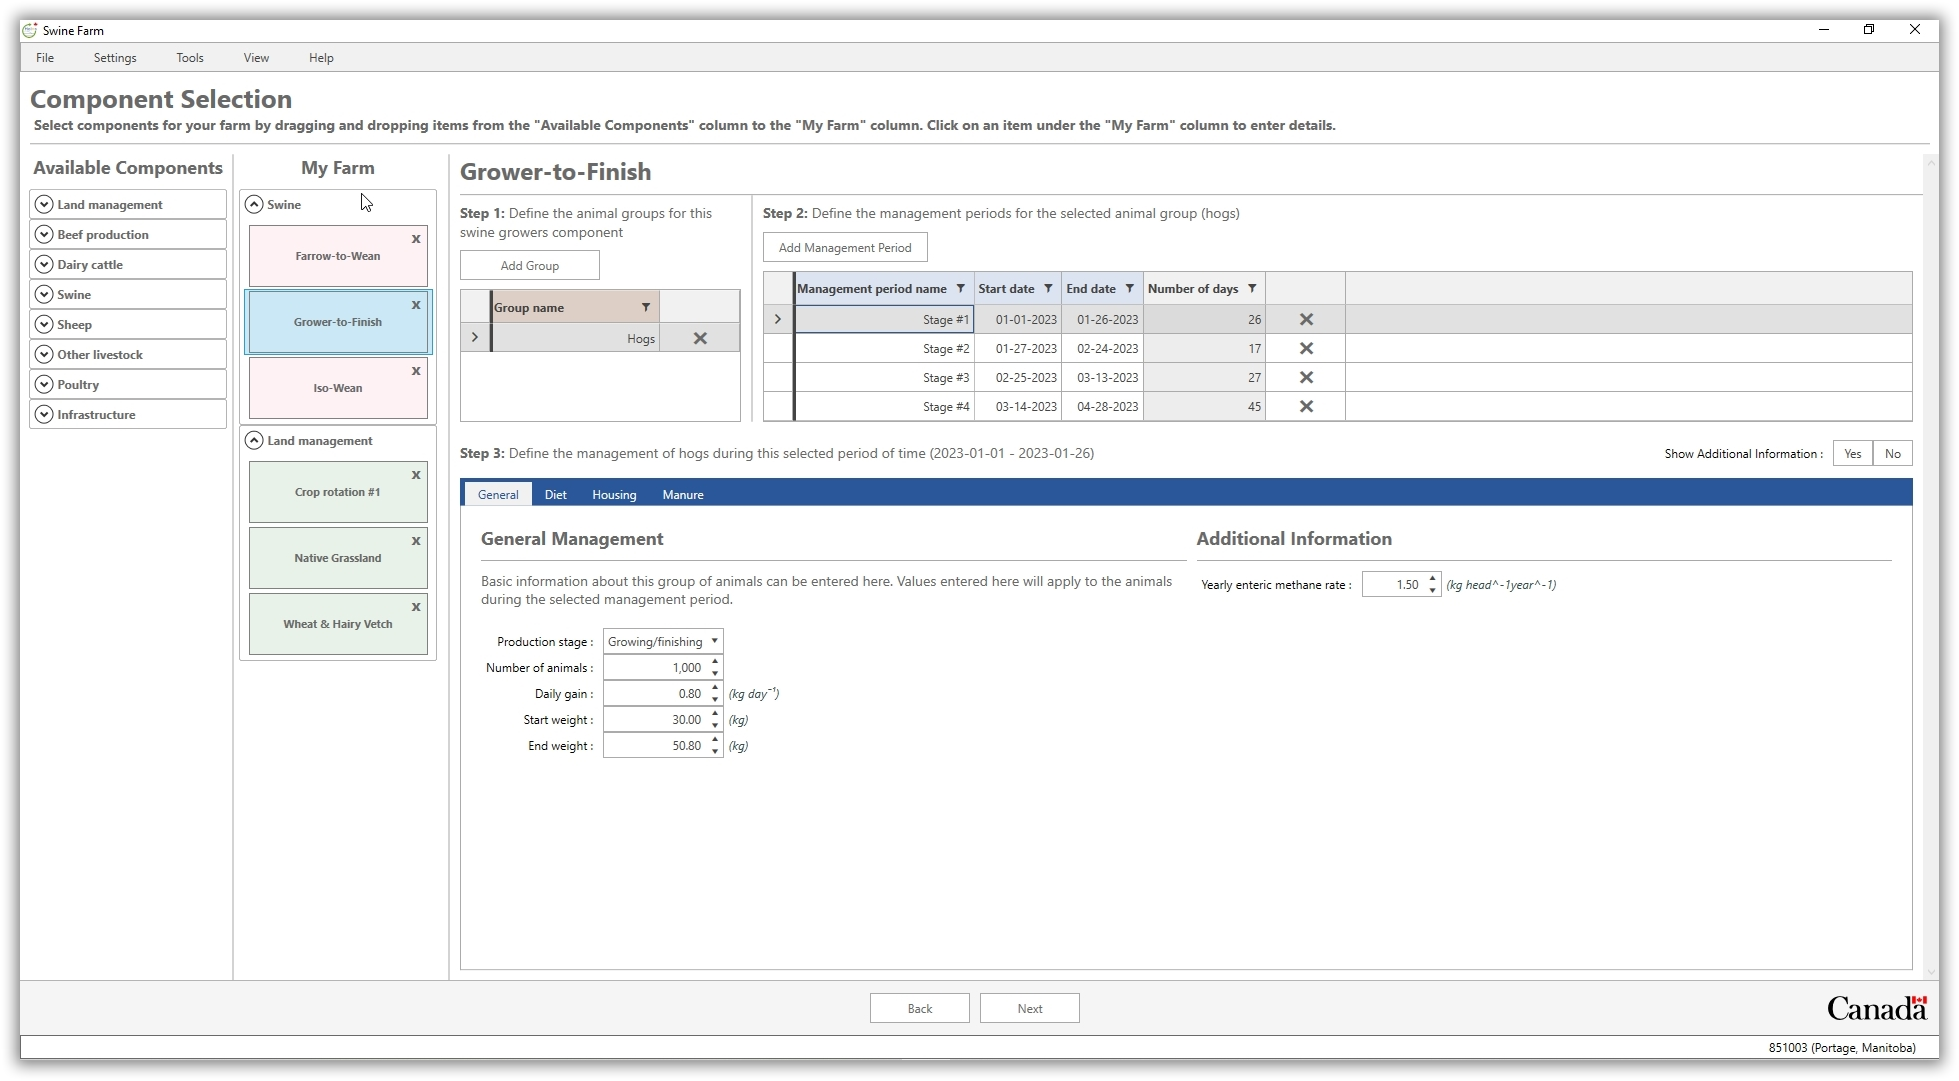
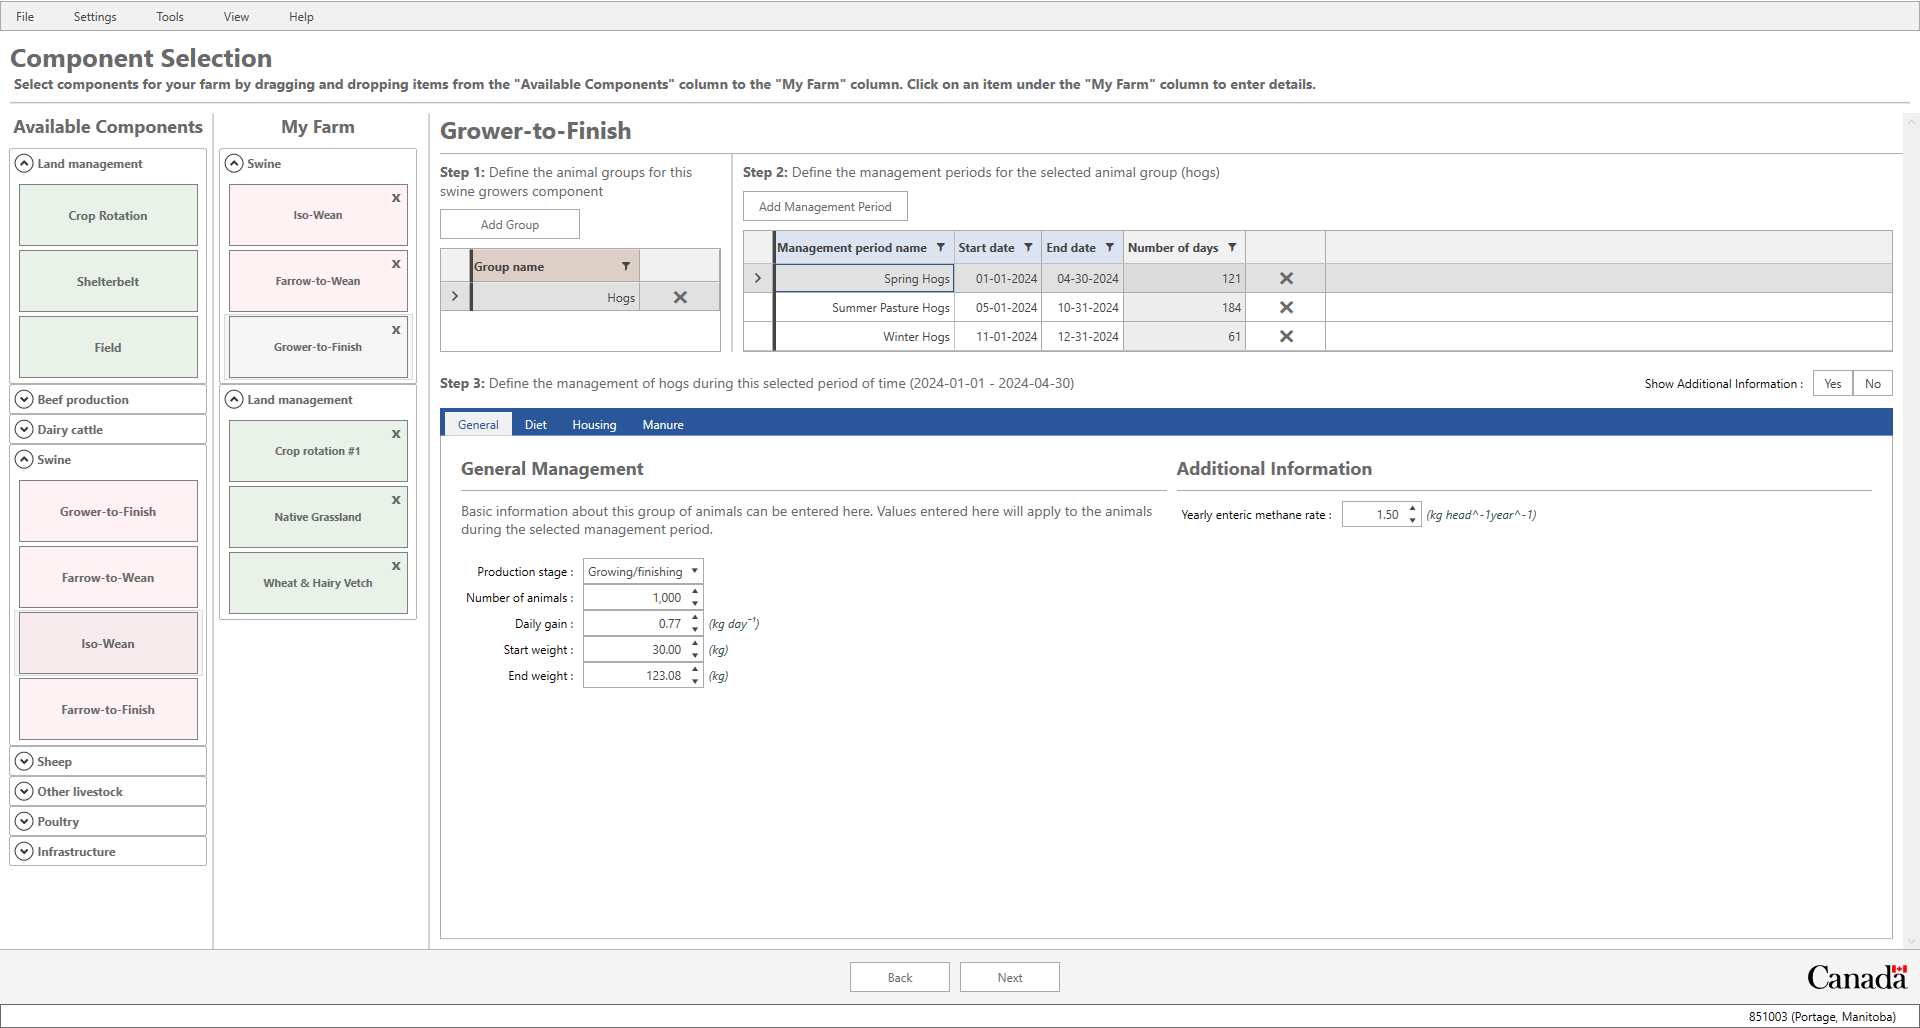
Updates to swine training guide

Changed region(s): [[0.0, 0.0, 1.0, 1.0], [0.0938, 0.716, 0.125, 0.8405], [0.2188, 0.8716, 0.25, 0.9339]]

diff --git a/H.Content/Documentation/Swine Training Guide/Holos_4_Swine_Training_Guide.md b/H.Content/Documentation/Swine Training Guide/Holos_4_Swine_Training_Guide.md
@@ -14,7 +14,7 @@ Please note that Holos 4 can be installed on a Microsoft Windows PC only. Mac OS
 
 Launch Holos by double-clicking on the Holos desktop icon. Holos will ask the user to open an existing farm, create a new farm, or import a saved farm file (Figure 1). If there is already a saved farm in the system, the user can click **Open**. If there are no saved farms in the system Holos will ask the user if they want to create a **New** farm or **Import** a saved farm file (i.e., a .json file). If the user creates a new farm, they are asked for the farm name and an optional comment (Figure 2).  
 
-Enter **"Holos 2023"** as the Name and **"Training Version"** as the Comments.  Click **OK** to proceed to the next screen.
+Enter **"Holos 2024"** as the Name and **"Training Version"** as the Comments.  Click **OK** to proceed to the next screen.
 
 Ensure “**Metric**” is selected as the unit of measurement type and then click the **Next** button at the bottom of the screen (Figure 3). 
 
@@ -206,7 +206,7 @@ The swine operation (defined later on) relies on native pasture for the summer m
 
 3. Select **"Rangeland (Native)"** from the drop-down crop list in the **Crop** column under **Step 2**. Please note that Holos auto-populates the **Winter/Cover/Undersown Crop** area when a perennial crop is selected.
 
-4. Keep **"0"** as the amount of irrigation and number of pesticide passes.
+4. Set **"0"** as the amount of irrigation and number of pesticide passes.
 
 5. No fertilizer is used for this crop.
 
@@ -234,20 +234,20 @@ For this example, we assume that the farm requires **70 ha** of barley grain and
 
 2. To expand the horizontal space available in Holos, click on **View** from the top menu bar and select **"Hide List of Available Components"**.
 
-3. The rotation of this field begins in **"1985"** and ends in **"2023"**. Under **Step 1**, please ensure that these two values are set as the start and end year, respectively.
+3. The rotation of this field begins in **"1985"** and ends in **"2024"**. Under **Step 1**, please ensure that these two values are set as the start and end year, respectively.
 
 4. Enter **"70"** ha as the **total area** of this field.
 
-5. Under **Step 2** change the crop to **"Barley"**. The year for this crop should be **"2023"**.
+5. Under **Step 2** change the crop to **"Barley"**. The year for this crop should be **"2024"**.
     * Under the **General** Tab enter **"3,000 kg ha<sup>-1</sup>"** (wet weight) as the yield for this crop.
     * Change the tillage type to **"Reduced Tillage"**.
-    * Keep **"0"** as the amount of irrigation and number of pesticide passes.
+    * Keep the default values of **"80.78"** mm ha<sup>-1</sup> as the amount of irrigation and **"0"** as the number of pesticide passes.
 
 6. Now add another crop to this rotation. Click on **"Add Crop"** under **Step 2** to add a second crop to the rotation. 
 
 <br>
 
-> *Note: Holos sets the year for this new crop to 2022 or one before the previous crop's year. This means that Holos is expecting the user to enter crops that have been grown in reverse order back to 1985.*
+> *Note: Holos sets the year for this new crop to 2023 or one before the previous crop's year. This means that Holos is expecting the user to enter crops that have been grown in reverse order back to 1985.*
 
 > *It is not necessary to enter a crop for each individual year going back to 1985, only enough crops to describe a single phase of the rotation will need to be entered by the user. Holos will then copy the phase information and back-populate the field history (i.e., Holos will copy the rotation back to 1985 on behalf of the user).*
 
@@ -308,34 +308,34 @@ The farrow-to-wean component is divided into **three animal groups**, and each o
 
 2. Click the management period named **"Open gilts"** in **Step 2** to activate that management period.
 
-3. Ensure **"January 1, 2022"** is set as the 'Start date' and **"January 5, 2022"** is set as the 'End date' (5 days). The default start and end dates that are provided in Holos can be changed by the user and the ‘Number of days’ will adjust accordingly. 
+3. Ensure **"January 1, 2024"** is set as the 'Start date' and **"January 6, 2024"** is set as the 'End date' (5 days). The default start and end dates that are provided in Holos can be changed by the user and the ‘Number of days’ will adjust accordingly. 
 
 4. Enter data related to the number of animals, diet, manure system, and housing type in **Step 3**. Under the **General** Tab:
     * Select 'Open (not lactating or pregnant)' as the Production stage.
     * Enter **"83"** as the number of animals.
     * Keep the remaining entries at their default values.
 
-5. Under the **Diet Tab** select 'Gestation based diet' from the drop down menu. From the **Housing Tab** select 'Housed in Barn' and leave the Bedding type as 'Straw'. From the **Manure Tab**, select 'Liquid/Slurry with natural crust'.
+5. Under the **Diet Tab** select 'Gestation' from the diet drop down menu. From the **Housing Tab** select 'Housed in Barn' and set the Bedding type as 'Straw (Chopped)'. From the **Manure Tab**, select 'Liquid/Slurry with natural crust'.
 
-6.  For each of the three management periods named **"Bred Gilts (Stages 1-3)"** set the 'Start' and 'End' dates to **38** days, respectively (i.e., Stage #1: 'January 06, 2022' to 'February 12, 2022', etc.).
+6.  For each of the three management periods named **"Bred Gilts (Stages 1-3)"** set the 'Start' and 'End' dates to **38** days, respectively (i.e., Stage #1: 'January 7, 2024' to 'February 14, 2024', etc.).
 
 7. Highlight **"Bred Gilts (Stage #1)"** management period and from the **General Tab:**
     * Select 'Gestating' as the Production stage.
     * Enter **"83"** as the number of animals.
     * Keep the remaining entries at their default values.
     
-8. Under the **Diet Tab** select 'Gestation based diet' from the drop down menu. From the **Housing Tab** select 'Housed in Barn' with 'Straw' bedding, and from the **Manure Tab** select 'Liquid/Slurry with natural crust'.
+8. Under the **Diet Tab** select 'Gestation' from the diet drop down menu. From the **Housing Tab** select 'Housed in Barn' with 'Straw (Chopped)' bedding, and from the **Manure Tab** select 'Liquid/Slurry with natural crust'.
 
 9. Repeat the Steps 7 and 8 for **"Bred Gilts (Stage#2) and (Stage #3)"** management periods.
 
-10. Lastly select the **"Farrowing gilts"**, and enter **"April 04, 2022"** as the 'Start date' and **"May 07, 2022"** as the 'End date' (21 days).
+10. Lastly select the **"Farrowing gilts"**, and enter **"May 3, 2024"** as the 'Start date' and **"May 24, 2024"** as the 'End date' (21 days).
 
 11. Under the **General Tab:**
     * Select 'Lactating' as the Production stage.
     * Enter **"83"** as the number of animals.
     * Keep the remaining entries at their default values.
     
-12. Under the **Diet Tab** select 'Lactation based diet' from the drop down menu. From the **Housing Tab** select 'Housed in Barn' with 'Straw' bedding, and from the **Manure Tab** select 'Liquid/Slurry with natural crust'.
+12. Under the **Diet Tab** select 'Lactation' from the diet drop down menu. From the **Housing Tab** select 'Housed in Barn' with 'Straw (Chopped)' bedding, and from the **Manure Tab** select 'Liquid/Slurry with natural crust'.
 
 <br>
 
@@ -343,37 +343,37 @@ The farrow-to-wean component is divided into **three animal groups**, and each o
 
 We will now move on to the **"Sow"** animal group in **Step 1** by highlighting it. 
 
-13. For each of the three management periods in **Step 2** named **"Bred Sows (Stages 1-3)"**, set the 'Start' and 'End' dates to **38** days, respectively (i.e., Stage #1: 'January 31, 2022' to 'March 10, 2022', etc.). 
+13. For each of the three management periods in **Step 2** named **"Bred Sows (Stages 1-3)"**, set the 'Start' and 'End' dates to **38** days, respectively (i.e., Stage #1: 'January 07, 2024' to 'February 14, 2024', etc.). 
 
 14. Under the **General Tab** for **all three** 'Bred Sows' management periods:
     * Select 'Gestating' as the Production stage.
     * Enter **"83"** as the number of animals.
     * Keep the remaining entries at their default values.
-    * **"Litter size"** can be adjusted accordingly in all Management periods for Sows; here we will leave the default value of **13.5**.  
+    * **"Litter size"** can be adjusted accordingly in all Management periods for Sows; here we will leave the default value of **9**.  
     
-15. Under the **Diet Tab** select 'Gestation based diet' from the drop down menu.     From the **Housing Tab** select 'Housed in Barn' with 'Straw' bedding, and from the **Manure Tab** select 'Liquid/Slurry with natural crust'.
+15. Under the **Diet Tab** select 'Gestation' from the diet drop down menu.     From the **Housing Tab** select 'Housed in Barn' with 'Straw (Chopped)' bedding, and from the **Manure Tab** select 'Liquid/Slurry with natural crust'.
 
-16. Moving to the **"Farrowing lactating sows"** management period in **Step 2**, set the 'Start date' to **"May 28, 2022"** and 'End date' to **"June 09, 2022"**(21 days).
+16. Moving to the **"Farrowing lactating sows"** management period in **Step 2**, set the 'Start date' to **"May 3, 2024"** and 'End date' to **"June 24, 2024"** (21 days).
 
 17. Under the **General Tab:** 
     * Select 'Lactating' as the Production stage.
     * Enter **"83"** as the number of animals.
     * Keep the remaining entries at their default values.
     
-18. Under the **Diet Tab** select 'Lactation based diet' from the drop down menu. From the **Housing Tab** select 'Housed in Barn' with 'straw' bedding, and from the **Manure Tab** select 'Liquid/Slurry with natural crust'.
+18. Under the **Diet Tab** select 'Lactation' from the diet drop down menu. From the **Housing Tab** select 'Housed in Barn' with 'Straw (Chopped)' bedding, and from the **Manure Tab** select 'Liquid/Slurry with natural crust'.
 
 19. Lastly, in the **"Open sows"** management period under the **General Tab:**
     * Select 'Open (not lactating or pregnant)' as the Production stage.
     * Enter **"370"** as the number of animals.
     * Keep the remaining entries at their default values.
     
-20. Under the **Diet Tab** select 'Gestation based diet' from the drop down menu.     From the **Housing Tab** select 'Housed in Barn' with 'Straw' bedding, and from the **Manure Tab** select 'Liquid/Slurry with natural crust'.
+20. Under the **Diet Tab** select 'Gestation' from the diet drop down menu. From the **Housing Tab** select 'Housed in Barn' with 'Straw (Chopped)' bedding, and from the **Manure Tab** select 'Liquid/Slurry with natural crust'.
 
 <br>
 
 ### Boars
 
-Moving on to the **"Boars"** section, ensure this group is highlighted in **Step 1**. In **Step 2** we will have a single Management period setting **"January 1, 2022"** as the 'Start date' and **"December 31,2022"** as the 'End date'(365 days).
+Moving on to the **"Boars"** section, ensure this group is highlighted in **Step 1**. In **Step 2** we will have a single Management period setting **"January 1, 2024"** as the 'Start date' and **"December 31, 2024"** as the 'End date'(365 days).
 
 20. Under the **General Tab:**
     * Select 'Breeding stock' as the Production stage.
@@ -389,15 +389,15 @@ As an alternative to the default set of standard animal diets that are found in 
     **Custom Diet Creator Screen:**
 
     * Click the **"Add Custom Diet"** button in **Step 1** to begin to create our new custom diet. 
-    * Rename the diet **"Boar Diet"** then press the Enter to save.
+    * Rename the diet **"Custom Boar Diet"** then press the Enter to save.
     * Add ingredients to the new diet in **Step 2**. Select **"Add Selected Ingredients to Diet"**. Search for **"Wheat, Hard Red"** from the ingredient list, highlight the choice, and then click the **OK** button below to have it appear in **Step 3** where the diet is being comprised.
     * Enter the **Percentage in diet (%DM)** that this ingredient will hold; here we will input **38%**.
     * Continue to add more ingredients to the diet. Select **"Wheat Shorts"** from the “**Add Selected Ingredient to Diet**” list, highlight, and click **OK**. Enter **2%** in **Step 3** for **Percentage in diet (%DM)**.
-    * Enter **"Corn distiller's dried grains (10.6%)"**. Continue to add all the various ingredients to your diet. For our boar diet, add ingredients as follows: "Soybean meal, fermented (7.1%)", "Canola, Full fat (0.5%)", "Field peas (5.0%)", "salt (0.26%)", "phosphorus (1.3%)", "Canola Meal, Expelled (15%)", and "Barley (20%)". 
-    * If any ingredient is not found in the **Full Text Search**, the user can enter the ingredient information independently using the **"Create Custom Ingredient"** button. For our example we will add the combination of lysine/vitamins (0.24%) following these steps.  
+    * Enter **"Corn distiller's dried grains (10.6%)"**. Continue to add all the various ingredients to your diet. For our boar diet, add ingredients as follows: "Soybean meal, fermented (8.15%)", "Canola, Full fat (1%)", "Field peas (5.0%)", "Canola Meal, Expelled (15%)", and "Barley (20%)". 
+    * If any ingredient is not found in the **Full Text Search**, the user can enter the ingredient information independently using the **"Create Custom Ingredient"** button. For our example we will add the combination of lysine/vitamins (0.25%) following these steps.  
     * Holos will now report the diet as being complete when **all ingredients total 100%**.
     * Click the **OK** button to save the new custom diet
-    * Now from the Diet tab, **"Boar Diet"** can be selected from the drop down-down menu as the new diet for this animal group.
+    * Now from the Diet tab, **"Custom Boar Diet"** can be selected from the drop down-down menu as the new diet for this animal group.
  
  <br>
  
@@ -413,13 +413,13 @@ As an alternative to the default set of standard animal diets that are found in 
 
 <br>
 
-22.  From the **Housing Tab** select 'Housed in Barn' with 'Straw' bedding, and from the **Manure Tab** select 'Liquid/Slurry with natural crust'.
+22.  From the **Housing Tab** select 'Housed in Barn' with 'Straw (Chopped)' bedding, and from the **Manure Tab** select 'Liquid/Slurry with natural crust'.
 
 <br>
 
 ## Iso-Wean
 
-Click on the **Piglets** animal group in **Step 1**. Click on the **"Weaned piglets Stage #1"** management period in **Step 2**. We will leave the default dates 'January 01, 2022' to 'January 19, 2022' (19 days).
+Click on the **Piglets** animal group in **Step 1**. Click on the **"Weaned piglets Stage #1"** management period in **Step 2**. We will leave the default dates 'January 01, 2024' to 'January 20, 2024' (19 days).
 
 23. From the **General Tab:**
        * Enter **"100:** as the number of animals.
@@ -428,9 +428,9 @@ Click on the **Piglets** animal group in **Step 1**. Click on the **"Weaned pigl
 24. From the **Diet Tab:**
     * Select 'Nursery weaners (starter diet #1)' as the diet type. 
     
-25.  From the **Housing Tab** select 'Housed in Barn' with 'Straw' bedding, and from the **Manure Tab** select 'Liquid/Slurry with natural crust'.
+25.  From the **Housing Tab** select 'Housed in Barn' with 'Straw (Chopped)' bedding, and from the **Manure Tab** select 'Liquid/Slurry with natural crust'.
 
-26. Information related to diet, housing and manure management is entered in the same manner as for the **"Weaned piglets Stage #2"** management period. We will leave the default dates 'January 20, 2022' to 'February 04, 2022' (16 days). Repeat steps 23 to 25, with the exception of selecting 'Nursery weaners (starter diet #2)'.
+26. Information related to diet, housing and manure management is entered in the same manner as for the **"Weaned piglets Stage #2"** management period. We will leave the default dates 'January 21, 2024' to 'February 04, 2024' (16 days). Repeat steps 23 to 25, with the exception of selecting 'Nursery weaners (starter diet #2)'.
 
 <br>
 
@@ -444,7 +444,7 @@ Click on the **Piglets** animal group in **Step 1**. Click on the **"Weaned pigl
 
 ## Grower-to-Finish 
 
-Click on the **Hogs** animal group in **Step 1**. In **Step 2** we will create three Management periods for this group. The first is the winter period, setting **"January 01, 2022"** as the 'Start date' and **"April 30, 2022"** as the ‘End date’ (120 days). Name this period **"Spring Hogs"**. We can go ahead and remove the 4th Management period by clicking the **X**.
+Click on the **Hogs** animal group in **Step 1**. In **Step 2** we will create three Management periods for this group. The first is the winter period, setting **"January 01, 2024"** as the 'Start date' and **"April 30, 2024"** as the ‘End date’ (121 days). Name this period **"Spring Hogs"**. We can go ahead and remove the 4th Management period by clicking the **X**.
 
 1. Highlight the 'Spring Hogs' management period, and on the **General Tab:**
       * Leave the default 'Growing/finishing' as the production stage.
@@ -454,7 +454,7 @@ Click on the **Hogs** animal group in **Step 1**. In **Step 2** we will create t
     * Select 'Grower/Finisher diet 2' as the diet type.
 
     **Housing Tab:**
-    * Select 'Housed in barn' as the housing type and leave 'Straw' as the bedding type.
+    * Select 'Housed in barn' as the housing type and leave 'Straw (Chopped)' as the bedding type.
     
     **Manure Tab:**
     * Select 'Liquid/Slurry with natural crust' as the manure handling system.
@@ -462,7 +462,7 @@ Click on the **Hogs** animal group in **Step 1**. In **Step 2** we will create t
 
 ### Hogs - On Pasture
 
-The second management period in **Step 2** will be named **"Summer Pasture Hogs"**. Our warm season grazing will be set from **"May 01, 2022"**  to **"October 31, 2022"** (184 days). 
+The second management period in **Step 2** will be named **"Summer Pasture Hogs"**. Our warm season grazing will be set from **"May 01, 2024"**  to **"October 31, 2024"** (184 days). 
 
 2. Highlight 'Summer Pasture Hogs', and on the **General Tab:"** 
       * Leave the production stage as 'Growing/finishing' 
@@ -477,7 +477,7 @@ The second management period in **Step 2** will be named **"Summer Pasture Hogs"
 
 3. We will create a new diet as a supplement to grazing on pasture. Select the 'Custom Diet Creator' button. In **Step 1** on the this screen, select 'Add Custom Diet' and name it **"Hog Supplement"**. 
 
-4. In **Step 2** add the ingredients Barley (97.5%), phosphorus (2%) and lysine/vitamins (0.5%). The last two ingredients will now appear in the text search as they were previously added for the 'Boar Diet'. 
+4. In **Step 2** add the ingredients Barley (99.5%) and lysine/vitamins (0.5%). Lysine/vitamins will now appear in the text search as it was previously added for the 'Boar Diet'. 
 
 5. Adjust the 'Percentage in diet' values in **Step 3**. Click **OK** to save.
 
@@ -490,7 +490,7 @@ The second management period in **Step 2** will be named **"Summer Pasture Hogs"
 8. On the **Manure Tab:**
     * Select **Pasture** as the manure handling system.
 
-Lastly set the fall period as **"November 01, 2022"** to **"December 31,2022"** (61 days) and name this **"Winter Hogs"**.
+Lastly set the fall period as **"November 01, 2024"** to **"December 31, 2024"** (61 days) and name this **"Winter Hogs"**.
 
 9. Highlight the 'Winter Hogs' management period, and on the **General Tab:**
       * Leave the default 'Growing/finishing' as the production stage.
@@ -500,7 +500,7 @@ Lastly set the fall period as **"November 01, 2022"** to **"December 31,2022"** 
     * Select 'Grower/Finisher diet #4' as the diet type.
 
     **Housing Tab:**
-    * Select 'Housed in barn' as the housing type and leave 'Straw' as the bedding type.
+    * Select 'Housed in barn' as the housing type and leave 'Straw (Chopped)' as the bedding type.
     
     **Manure Tab:**
     * Select 'Liquid/Slurry with natural crust' as the manure handling system.
@@ -618,7 +618,7 @@ We will assume that the barley grain and mixed hay rotation fields were previous
 <br>
 
 <p align="center">
-    <img src="../../Images/SwineGuide/en/Figure 22.jpg" alt="Figure 22" width="650"/>
+    <img src="../../Images/SwineGuide/en/Figure 22.png" alt="Figure 22" width="650"/>
     <br>
     <em>Figure 22: Editing crops in a historical period of the rotation. </em>
 </p> 
@@ -700,7 +700,7 @@ The **'Feed Estimate'** report provides an estimate of dry matter intake based o
 <br>
 
 <p align="center">
-    <img src="../../Images/SwineGuide/en/Figure 26.jpg" alt="Figure 26" width="950"/>
+    <img src="../../Images/SwineGuide/en/Figure 26.png" alt="Figure 26" width="950"/>
     <br>
     <em>Figure 26: Feed estimate report.</em>
 </p> 
@@ -720,7 +720,7 @@ If you would like to export your entire farm file, from **File** on the main tas
 <br>
 
 <p align="center">
-    <img src="../../Images/SwineGuide/en/Figure 27.jpg" alt="Figure 27" width="950"/>
+    <img src="../../Images/SwineGuide/en/Figure 27.png" alt="Figure 27" width="950"/>
     <br>
     <br>
     <em>Figure 27: Carbon report section. Allows switching between graph shown here and table format shown below.</em>
@@ -729,7 +729,7 @@ If you would like to export your entire farm file, from **File** on the main tas
 <br>
     
 <p align="center">
-    <img src="../../Images/SwineGuide/en/Figure 28.jpg" alt="Figure 28" width="950"/>
+    <img src="../../Images/SwineGuide/en/Figure 28.png" alt="Figure 28" width="950"/>
     <br>
     <em>Figure 28: Carbon report section. The table format.</em>
 </p>
